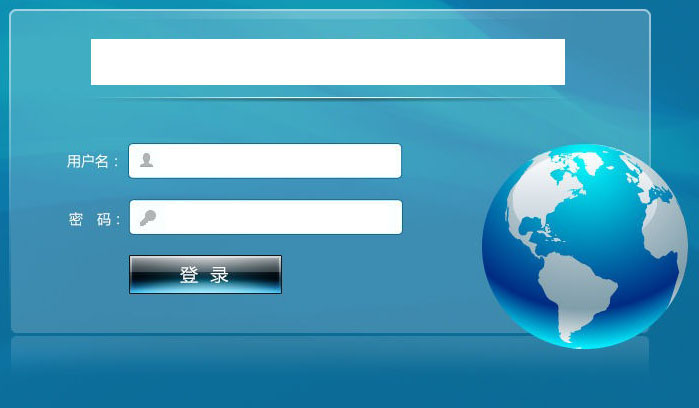
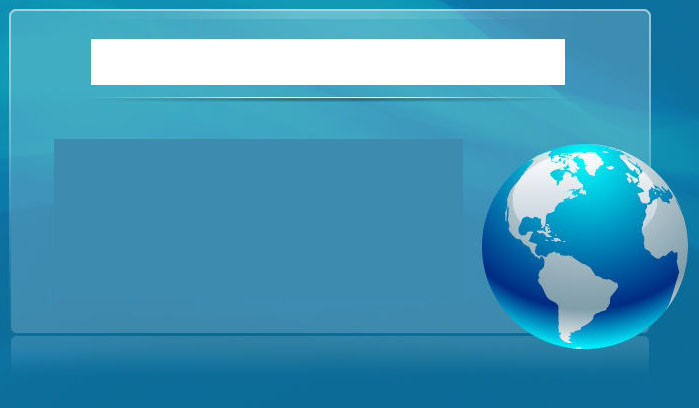
初步确定了方案，今晚实施....

Changed region(s): [[0.0601, 0.3235, 0.6009, 0.4412], [0.0901, 0.4706, 0.6009, 0.5882], [0.1803, 0.6176, 0.4206, 0.7353]]

diff --git a/grails-app/assets/stylesheets/cup/welcome.less b/grails-app/assets/stylesheets/cup/welcome.less
@@ -16,7 +16,7 @@ body {
         height: 408px;
         margin: auto;
         margin-top: 20%;
-        border: 1px;
+        border: 0px;
 
         .login_title {
             padding-left: 120px;
@@ -26,17 +26,18 @@ body {
         }
 
         .welcomeForm {
-            padding-top: 62px;
+            padding-top: 80px;
             padding-left: 145px;
             ul {
                 list-style: none;
+                font-size: 1.5em;
                 li {
-                    padding: 12px;
+                    padding: 6px;
                 }
             }
 
             .login-button {
-                width: 100px;
+                width: 60px;
             }
         }
 

diff --git a/grails-app/assets/stylesheets/cup/welcome.css b/grails-app/assets/stylesheets/cup/welcome.css
@@ -12,7 +12,7 @@ body .welcomePanel {
   height: 408px;
   margin: auto;
   margin-top: 20%;
-  border: 1px;
+  border: 0px;
 }
 body .welcomePanel .login_title {
   padding-left: 120px;
@@ -21,16 +21,17 @@ body .welcomePanel .login_title {
   width: 800px;
 }
 body .welcomePanel .welcomeForm {
-  padding-top: 62px;
+  padding-top: 80px;
   padding-left: 145px;
 }
 body .welcomePanel .welcomeForm ul {
   list-style: none;
+  font-size: 1.5em;
 }
 body .welcomePanel .welcomeForm ul li {
-  padding: 12px;
+  padding: 6px;
 }
 body .welcomePanel .welcomeForm .login-button {
-  width: 100px;
+  width: 60px;
 }
 /*# sourceMappingURL=welcome.css.map */
